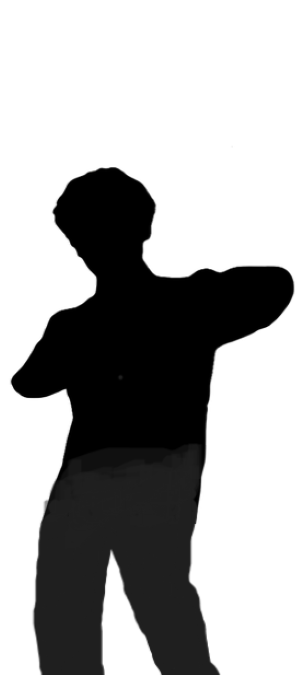
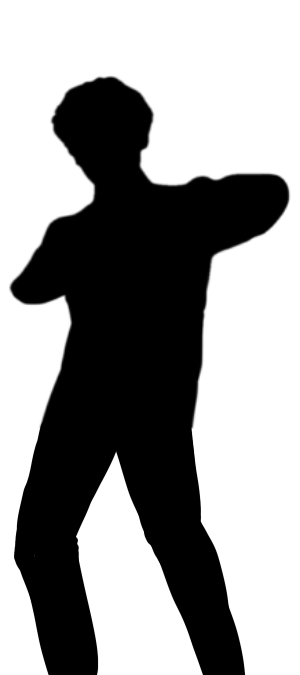
神来素材追加、フォント変更、フェードアウトイン細かい修正←気に入らなかったら変更

diff --git a/work11/js/sinario/sinario.js b/work11/js/sinario/sinario.js
@@ -1,12 +1,21 @@
 /*
-・文字はクオーテーションで囲む
-・文章の最初は名前から
-・タグは単体又は文頭のみの記載とする
+・文字はクオーテーションで囲みカンマ区切りで記載
+・文章の最初の名前は半角:である
+・タグは単体又は文頭のみ
 
-阿戸　ado 番号 1
-神来　kami 番号 2
-担任　番号　5
+chara (生成は300*675 .png のみ)
+阿戸　ado 番号1
+神来　kami 番号2
+担任　番号5
 
+background (生成は1280*800 .jpg のみ)
+bg0 スタート画面
+bg1 校門
+bg2 教室
+bg3 部室
+bg4 廊下
+
+ending　(生成は1280*800 or 1000*700 .jpg)
 end 1　ノーマルエンドスチル
 end 2　ボッチエンドスチル
 end 3　あどエンドスチル
@@ -55,7 +64,7 @@ window.ScenarioData = {
     ],
     [
         //text[3]
-        "<fadeOutIn_bg 21>",
+        "<fadeOutIn_bg 2>",
         "ガラッ",
         "<fadeIn_chara 1 5>担任:みんな席につけ～",
         "担任:出席とるぞ～今日休みのやつ手を挙げろ～いねぇなぁ",
@@ -100,28 +109,29 @@ window.ScenarioData = {
         //text[7]
         "<fadeOutIn_bg 4>　昼休み",
         "主人公:結局あの後クラスの出し物はクレープの販売に決まった<break>昨日ゲームを夜中までしていて寝不足だった俺はうとうとしていたら生地を生成し続ける係りになっていた",
-        "<fadeIn_chara 1 2>神来:先輩が最近ぜーんぜん部活に顔出さないから来てあげたんじゃないですかぁ",
+        "<fadeIn_chara 1 21>???:先輩が最近ぜーんぜん部活に顔出さないから来てあげたんじゃないですかぁ",
         "彼女は神来　無有（かみらい　むう）俺が所属する美術部の後輩だ<break>彼女の入部当時から何かと可愛がっている",
-        "神来:もう学園祭で展示する作品の制作に取り掛からないと間に合いませんよー",
-        "神来:手を付けてないの知ってるんですからねっ！",
+        "神来 無有:もう学園祭で展示する作品の制作に取り掛からないと間に合いませんよー",
+        "神来 無有:手を付けてないの知ってるんですからねっ！",
         "主人公:やべっ、そうだった",
-        "神来:もう！忘れてたんですか！？",
+        "神来 無有:もう！忘れてたんですか！？",
         "<select1 8><select2 9><select3 none><text1 部室で作品の制作をする><text2 クラスで出し物の準備をする><selectBox>    午後は何をしようか"
     ],
     [
         //text[8]
         "<like kami 1>主人公:ごめんごめん、午後に行くから待ってて？",
-        "神来:本当ですか！待ってますね！",
+        "神来 無有:本当ですか！待ってますね！",
         "<skip 10>"
     ],
     [
         //text[9]
         "主人公:今日はクラスの準備するから明日以降がんばるよ",
-        "神来:当日までに完成しなくても知りませんからね！",
+        "神来 無有:当日までに完成しなくても知りませんからね！",
         "<skip 10>"
     ],
     [
         //text[10]
+        "<fadeOut_chara 1 21>",
         "そう言って自クラスに戻っていった後輩を尻目に俺は購買に走り込むのだった"
     ]
 

diff --git a/work11/js/main.js b/work11/js/main.js
@@ -32,7 +32,7 @@ window.addEventListener('load', function () {
 
     // ＜ゲーム内変数＞
     let playerName = '';//主人公名前保存用
-    let adoLove = 0; //あど好感度
+    let adoLove = -1; //あど好感度
     let kamiLove = 0;  //かみらい好感度
     const LOVE_MAX = 100; //好感度最大値
 
@@ -42,7 +42,7 @@ window.addEventListener('load', function () {
     startBtn.addEventListener('click', function () {
 
         // 好感度をリセット（ゲーム再スタート時）
-        adoLove = 0;
+        adoLove = -1;
         kamiLove = 0;
         saveLove();
 
@@ -123,7 +123,7 @@ window.addEventListener('load', function () {
             } else {
                 namebox.textContent = `【${name}】`;
             }
-            namebox.style.fontWeight = 'bold';
+            namebox.style.fontWeight = '900';
             namebox.style.fontSize = '1.6rem';
         } else {
             namebox.textContent = '';
@@ -316,13 +316,14 @@ window.addEventListener('load', function () {
                 }
                 function fadeOutIn_bg_remove() {
                     $('#bgimg').removeClass('fadeoutin');
-                    $('#messbox').removeClass('fadeoutin');
+                    $('#messbox').removeClass('fadeout-fast');
                     $('#textbox').removeClass('none');
                     $('#textbox').trigger('click');
                 }
-                $('#bgimg').addClass('fadeoutin');
-                $('#messbox').addClass('fadeoutin');
+                $('#messbox').addClass('fadeout-fast');
                 $('#textbox').addClass('none');
+                $('#bgimg').addClass('fadeoutin');
+                $('#messbox').addClass('fadein');
                 setTimeout(fadeOutIn_bg_change, 1500);
                 setTimeout(fadeOutIn_bg_remove, 3000);
                 break;
@@ -398,10 +399,10 @@ window.addEventListener('load', function () {
     // 好感度関数
     function adjustLove(character, amount) {
         if (character === 'ado') {
-            adoLove = Math.max(0, Math.min(LOVE_MAX, adoLove + amount));
+            adoLove = adoLove + amount;
             console.log("ado：", adoLove, amount);
         } else if (character === 'kami') {
-            kamiLove = Math.max(0, Math.min(LOVE_MAX, kamiLove + amount));
+            kamiLove = kamiLove + amount;
             console.log("kamirai：", kamiLove, amount);
         }
         saveLove();
@@ -451,7 +452,7 @@ window.addEventListener('load', function () {
         // 一定時間表示 → スタート画面へ切り替え
         setTimeout(() => {
             bg.style.opacity = 0; // エンディング画像を透明化
-            bg.src = 'img/bg0.png'; // 背景戻す
+            bg.src = 'img/bg0.jpg'; // 背景戻す
             setTimeout(() => {
                 bg.classList.add('fade-in'); // フェードインでスタート画面へ
                 showStartMenu(); // スタート画面表示

diff --git a/work11/css/style.css b/work11/css/style.css
@@ -8,9 +8,12 @@ body {
     overflow-x: hidden;
     margin: 0;
     padding: 0;
-    font-family: serif;
     color: #000;
     background-color: #fff;
+    font-family: "Zen Kurenaido", sans-serif;
+    font-style: normal;
+    font-weight: 600;
+    font-size: 1.2em;
 }
 
 #menu {
@@ -28,6 +31,9 @@ body {
 }
 
 #startBtn {
+    font-family: "Zen Kurenaido", sans-serif;
+    font-style: normal;
+    font-weight: 600;
     font-size: 1.5em;
     padding: 10px 30px;
     cursor: pointer;
@@ -55,6 +61,9 @@ body {
 
 #nameInputScreen input,
 #nameInputScreen button {
+    font-family: "Zen Kurenaido", sans-serif;
+    font-style: normal;
+    font-weight: 600;
     font-size: 1.2em;
     padding: 10px 20px;
     margin: 10px 0;
@@ -64,6 +73,7 @@ body {
 #textbox {
     width: 800px;
     height: 140px;
+    font-weight: 600;
     margin: -10px auto;
     display: flex;
     flex-direction: column;
@@ -71,7 +81,7 @@ body {
 }
 
 #namebox {
-    font-weight: bold;
+    font-weight: 900;
     font-size: 1.6rem;
     color: #000;
     margin-bottom: 5px;
@@ -81,7 +91,6 @@ body {
 #text {
     color: #000;
     font-size: 1.4rem;
-    font-family: serif;
     white-space: pre-wrap;
     /* 改行をそのまま表示 */
 }
@@ -157,17 +166,7 @@ body {
     z-index: 3;
 }
 
-#textbox {
-    width: 800px;
-    height: 140px;
-    margin: -10px auto;
-}
 
-#text {
-    color: #000;
-    font-size: 1.3rem;
-    font-family: serif;
-}
 
 .selectBox {
     position: absolute;
@@ -225,7 +224,7 @@ body {
     }
 
     100% {
-        opacity: 1;
+        opacity: 0.8;
     }
 }
 
@@ -238,7 +237,7 @@ body {
 
 @keyframes fadeout {
     0% {
-        opacity: 1;
+        opacity: 0.8;
     }
 
     100% {
@@ -255,7 +254,7 @@ body {
 
 @keyframes fadeoutin {
     0% {
-        opacity: 1;
+        opacity: 0.8;
     }
 
     50% {
@@ -263,8 +262,15 @@ body {
     }
 
     100% {
-        opacity: 1;
+        opacity: 0.8;
     }
+}
+
+.fadeout-fast {
+    animation-name: fadeout;
+    animation-fill-mode: forwards;
+    animation-duration: .1s;
+    animation-timing-function: ease;
 }
 
 .fadeoutin {
@@ -281,24 +287,4 @@ body {
 
 #bgimg.fade-out {
     animation: fadeOut 1s forwards;
-}
-
-@keyframes fadeIn {
-    from {
-        opacity: 0;
-    }
-
-    to {
-        opacity: 1;
-    }
-}
-
-@keyframes fadeOut {
-    from {
-        opacity: 1;
-    }
-
-    to {
-        opacity: 0;
-    }
 }

diff --git a/work11/mainwindw.html b/work11/mainwindw.html
@@ -7,6 +7,9 @@
     <meta name="viewport" content="width=device-width, initial-scale=1.0">
     <script src="https://code.jquery.com/jquery-3.3.1.min.js"
         integrity="sha256-FgpCb/KJQlLNfOu91ta32o/NMZxltwRo8QtmkMRdAu8=" crossorigin="anonymous"></script>
+    <link rel="preconnect" href="https://fonts.googleapis.com">
+    <link rel="preconnect" href="https://fonts.gstatic.com" crossorigin>
+    <link href="https://fonts.googleapis.com/css2?family=Zen+Kurenaido&display=swap" rel="stylesheet">
     <link rel="stylesheet" href="css/style.css">
     <script src="js/sinario/sinario.js"></script>
     <script src="js/main.js"></script>
@@ -17,7 +20,7 @@
     <div id="screen">
 
         <!-- 初期画面背景 -->
-        <img src="img/bg0.png" alt="" id="bgimg">
+        <img src="img/bg0.jpg" alt="" id="bgimg">
 
         <!-- スタートメニュー -->
         <div id="menu">
@@ -26,7 +29,7 @@
 
         <!-- 名前入力画面 -->
         <div id="nameInputScreen" class="none" style="text-align:center; margin-top: 200px;">
-            <label for="playerName">主人公の名前を入力してください:</label><br>
+            <label for="playerName">主人公の名前を入力してください</label><br>
             <input type="text" id="playerName" maxlength="10" style="font-size:1.2em; padding:5px;">
             <br><br>
             <button id="nameConfirmBtn" style="font-size:1.2em; padding: 10px 20px; cursor:pointer;">決定</button>
